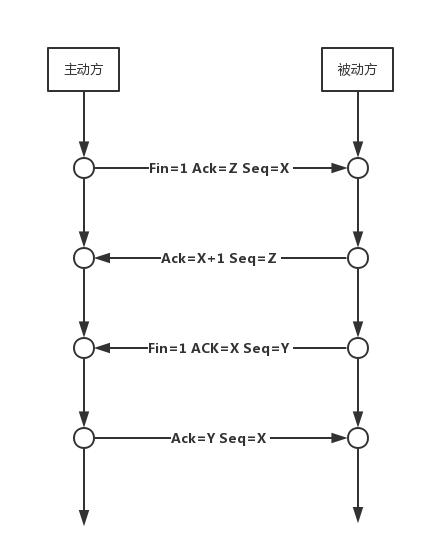
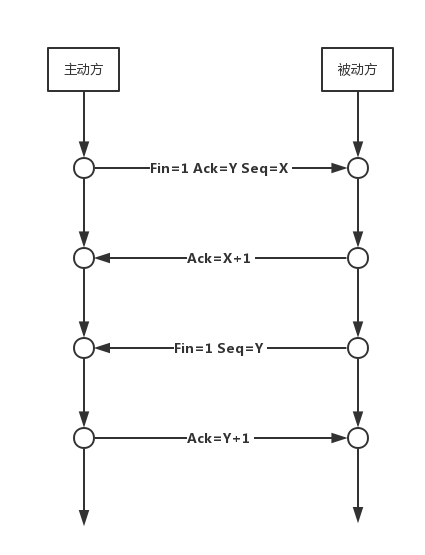
Adjust some

diff --git a/articles_html/计算机网络.html b/articles_html/计算机网络.html
@@ -611,11 +611,22 @@ ps：ARP - 地址转换协议（自动进行，为了获取同一个子网络中
 <h4 id="-">四次挥手</h4>
 <p><p class="image-wrapper"><img src="../images/四次挥手.png" alt="null" title="null"></p></p>
 <ol>
-<li>主动方发送Fin+Ack，同时结束主动方的数据传输，等待对方响应。</li>
+<li>主动方发送Fin+Ack包，同时结束主动方的数据传输，等待对方响应。</li>
 <li>被动方返回Ack包，表示已确认。</li>
-<li>被动方发送Fin+Ack，表示被动方的数据传输已结束。</li>
-<li>主动方再发送一个Ack包，表示已收到确认。</li>
+<li>被动方发送Fin包，表示被动方的数据传输已结束。</li>
+<li>主动方返回Ack包，表示已收到确认。</li>
 </ol>
+<h4 id="-">容错机制</h4>
+<ul>
+<li>超时重传：发送了Seq后，如果在一定时间内没有收到相应的Ack回复，则会认为报文丢失，会重传这个数据包。</li>
+<li>快速重传：如果被动方发现数据包丢失，会发送Ack让主动方重传数据包。</li>
+<li>流量控制：使用滑动窗进行流量的控制。</li>
+<li>拥塞控制：用于控制网络拥塞的策略，主要包括：慢启动、拥塞避免、拥塞发生、快速恢复。</li>
+</ul>
+<blockquote>
+<p>PS：Seq就是告诉接收方：我发送的数据是从Seq开始的。
+PS：Ack就是告诉接收方：我希望下次收到对端发过来的Seq序号。</p>
+</blockquote>
 <h2 id="-">应用层</h2>
 <h3 id="-">常见协议端口号</h3>
 <table>

diff --git a/articles/计算机网络.md b/articles/计算机网络.md
@@ -134,10 +134,20 @@ TCP报文格式：
 
 ![四次挥手](../images/四次挥手.png)
 
-1. 主动方发送Fin+Ack，同时结束主动方的数据传输，等待对方响应。
+1. 主动方发送Fin+Ack包，同时结束主动方的数据传输，等待对方响应。
 2. 被动方返回Ack包，表示已确认。
-3. 被动方发送Fin+Ack，表示被动方的数据传输已结束。
-4. 主动方再发送一个Ack包，表示已收到确认。
+3. 被动方发送Fin包，表示被动方的数据传输已结束。
+4. 主动方返回Ack包，表示已收到确认。
+
+#### 容错机制
+
+* 超时重传：发送了Seq后，如果在一定时间内没有收到相应的Ack回复，则会认为报文丢失，会重传这个数据包。
+* 快速重传：如果被动方发现数据包丢失，会发送Ack让主动方重传数据包。
+* 流量控制：使用滑动窗进行流量的控制。
+* 拥塞控制：用于控制网络拥塞的策略，主要包括：慢启动、拥塞避免、拥塞发生、快速恢复。
+
+> PS：Seq就是告诉接收方：我发送的数据是从Seq开始的。
+> PS：Ack就是告诉接收方：我希望下次收到对端发过来的Seq序号。
 
 ## 应用层
 
